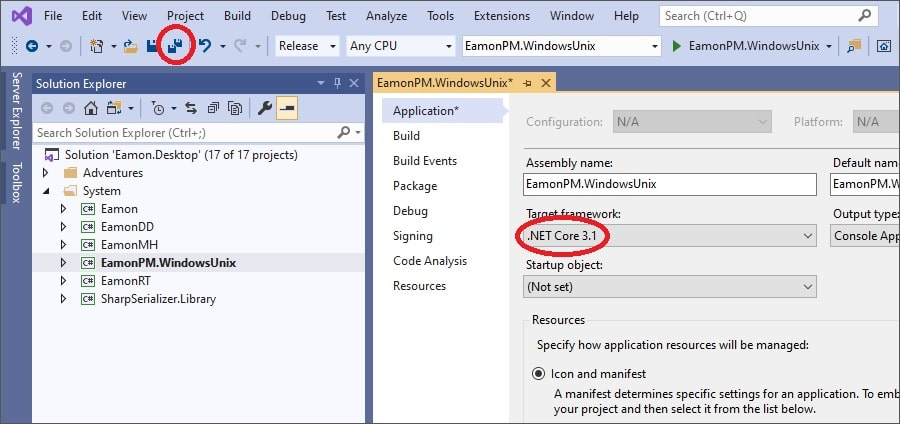
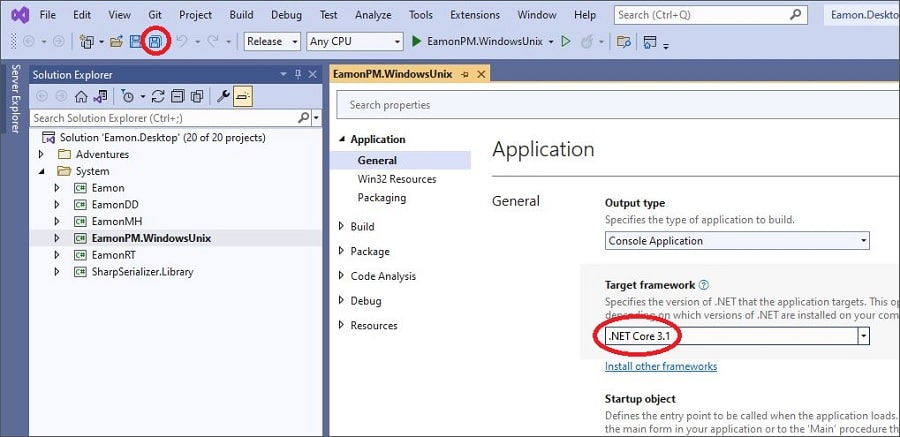
More work on TechnicalPaper.html.

Changed region(s): [[0.0, 0.0, 1.0, 1.0]]

diff --git a/pages/TechnicalPaper/TechnicalPaper.html b/pages/TechnicalPaper/TechnicalPaper.html
@@ -69,9 +69,6 @@
        <div style="text-align: center;"><img style="max-width: 100%; max-height: 100%;" title="IncompatibleNetCoreError.jpg" alt="IncompatibleNetCoreError.jpg" src="../../assets/images/TechnicalPaper/IncompatibleNetCoreError.jpg" /></div>
        <br />
        <p>
-          Note:&nbsp; this document uses screenshot images from Visual Studio 2019 when necessary; these should be similar in form and function to more recent Visual Studio versions, but be aware there may be differences.
-       </p>
-       <p>
           To recompile the EamonPM.WindowsUnix project, load the Eamon.Desktop solution in Visual Studio.&nbsp; Right-click on the project and choose Properties.&nbsp; Select the appropriate version of .NET in the Target Framework
           drop-down list of the Application General section, then click the Save button:
        </p>
